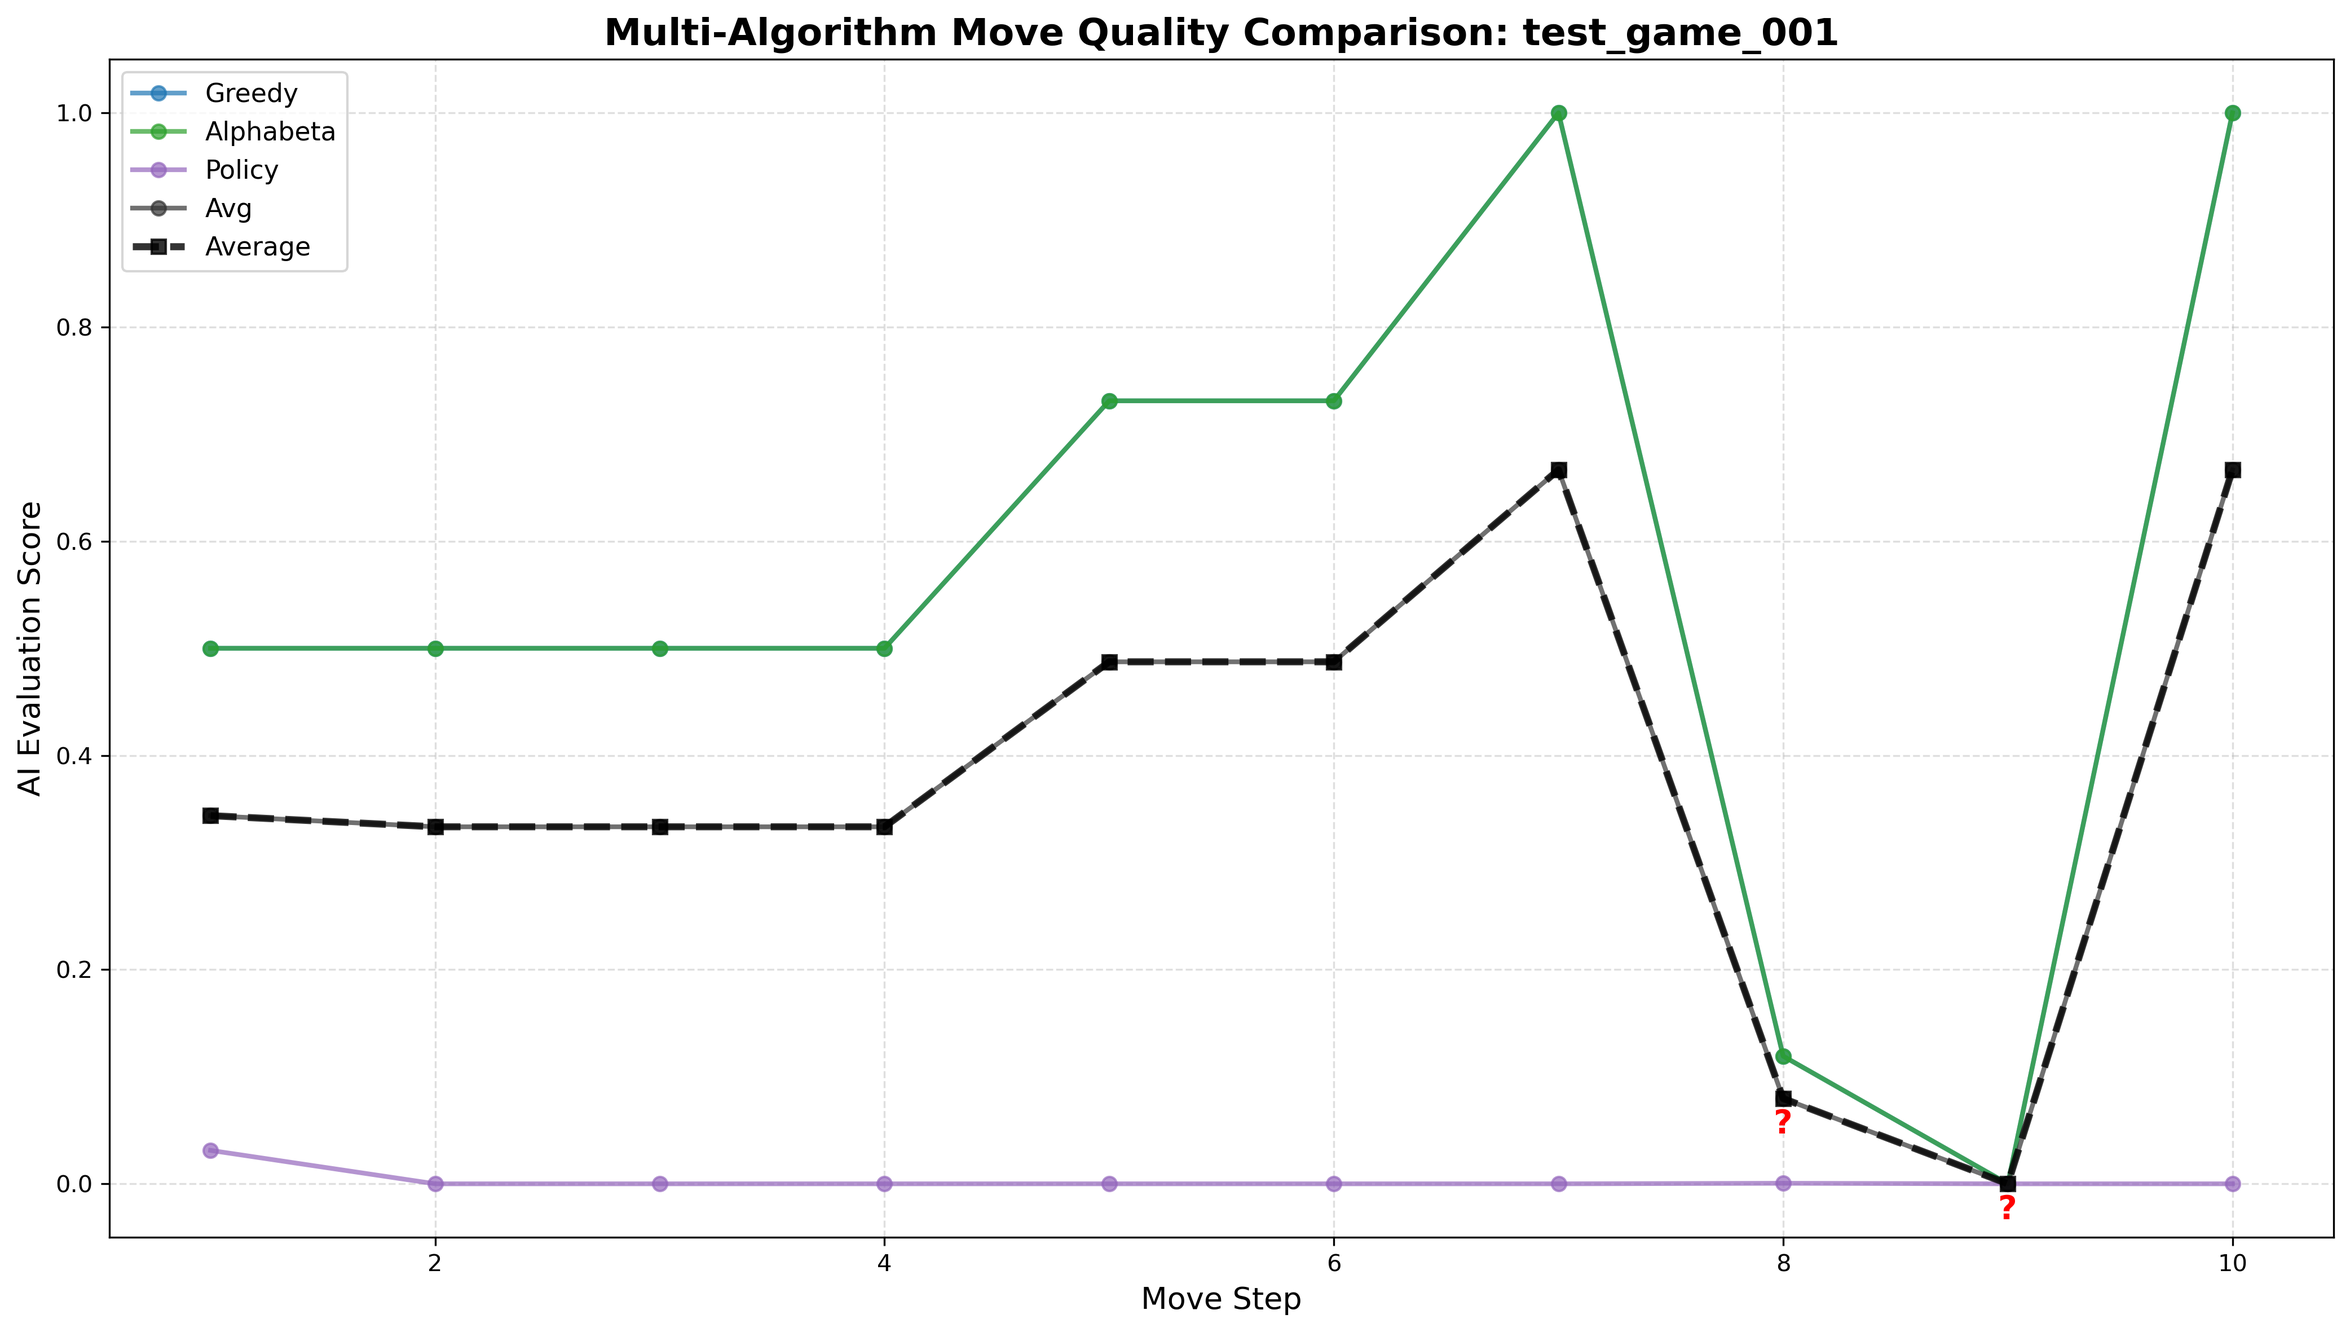
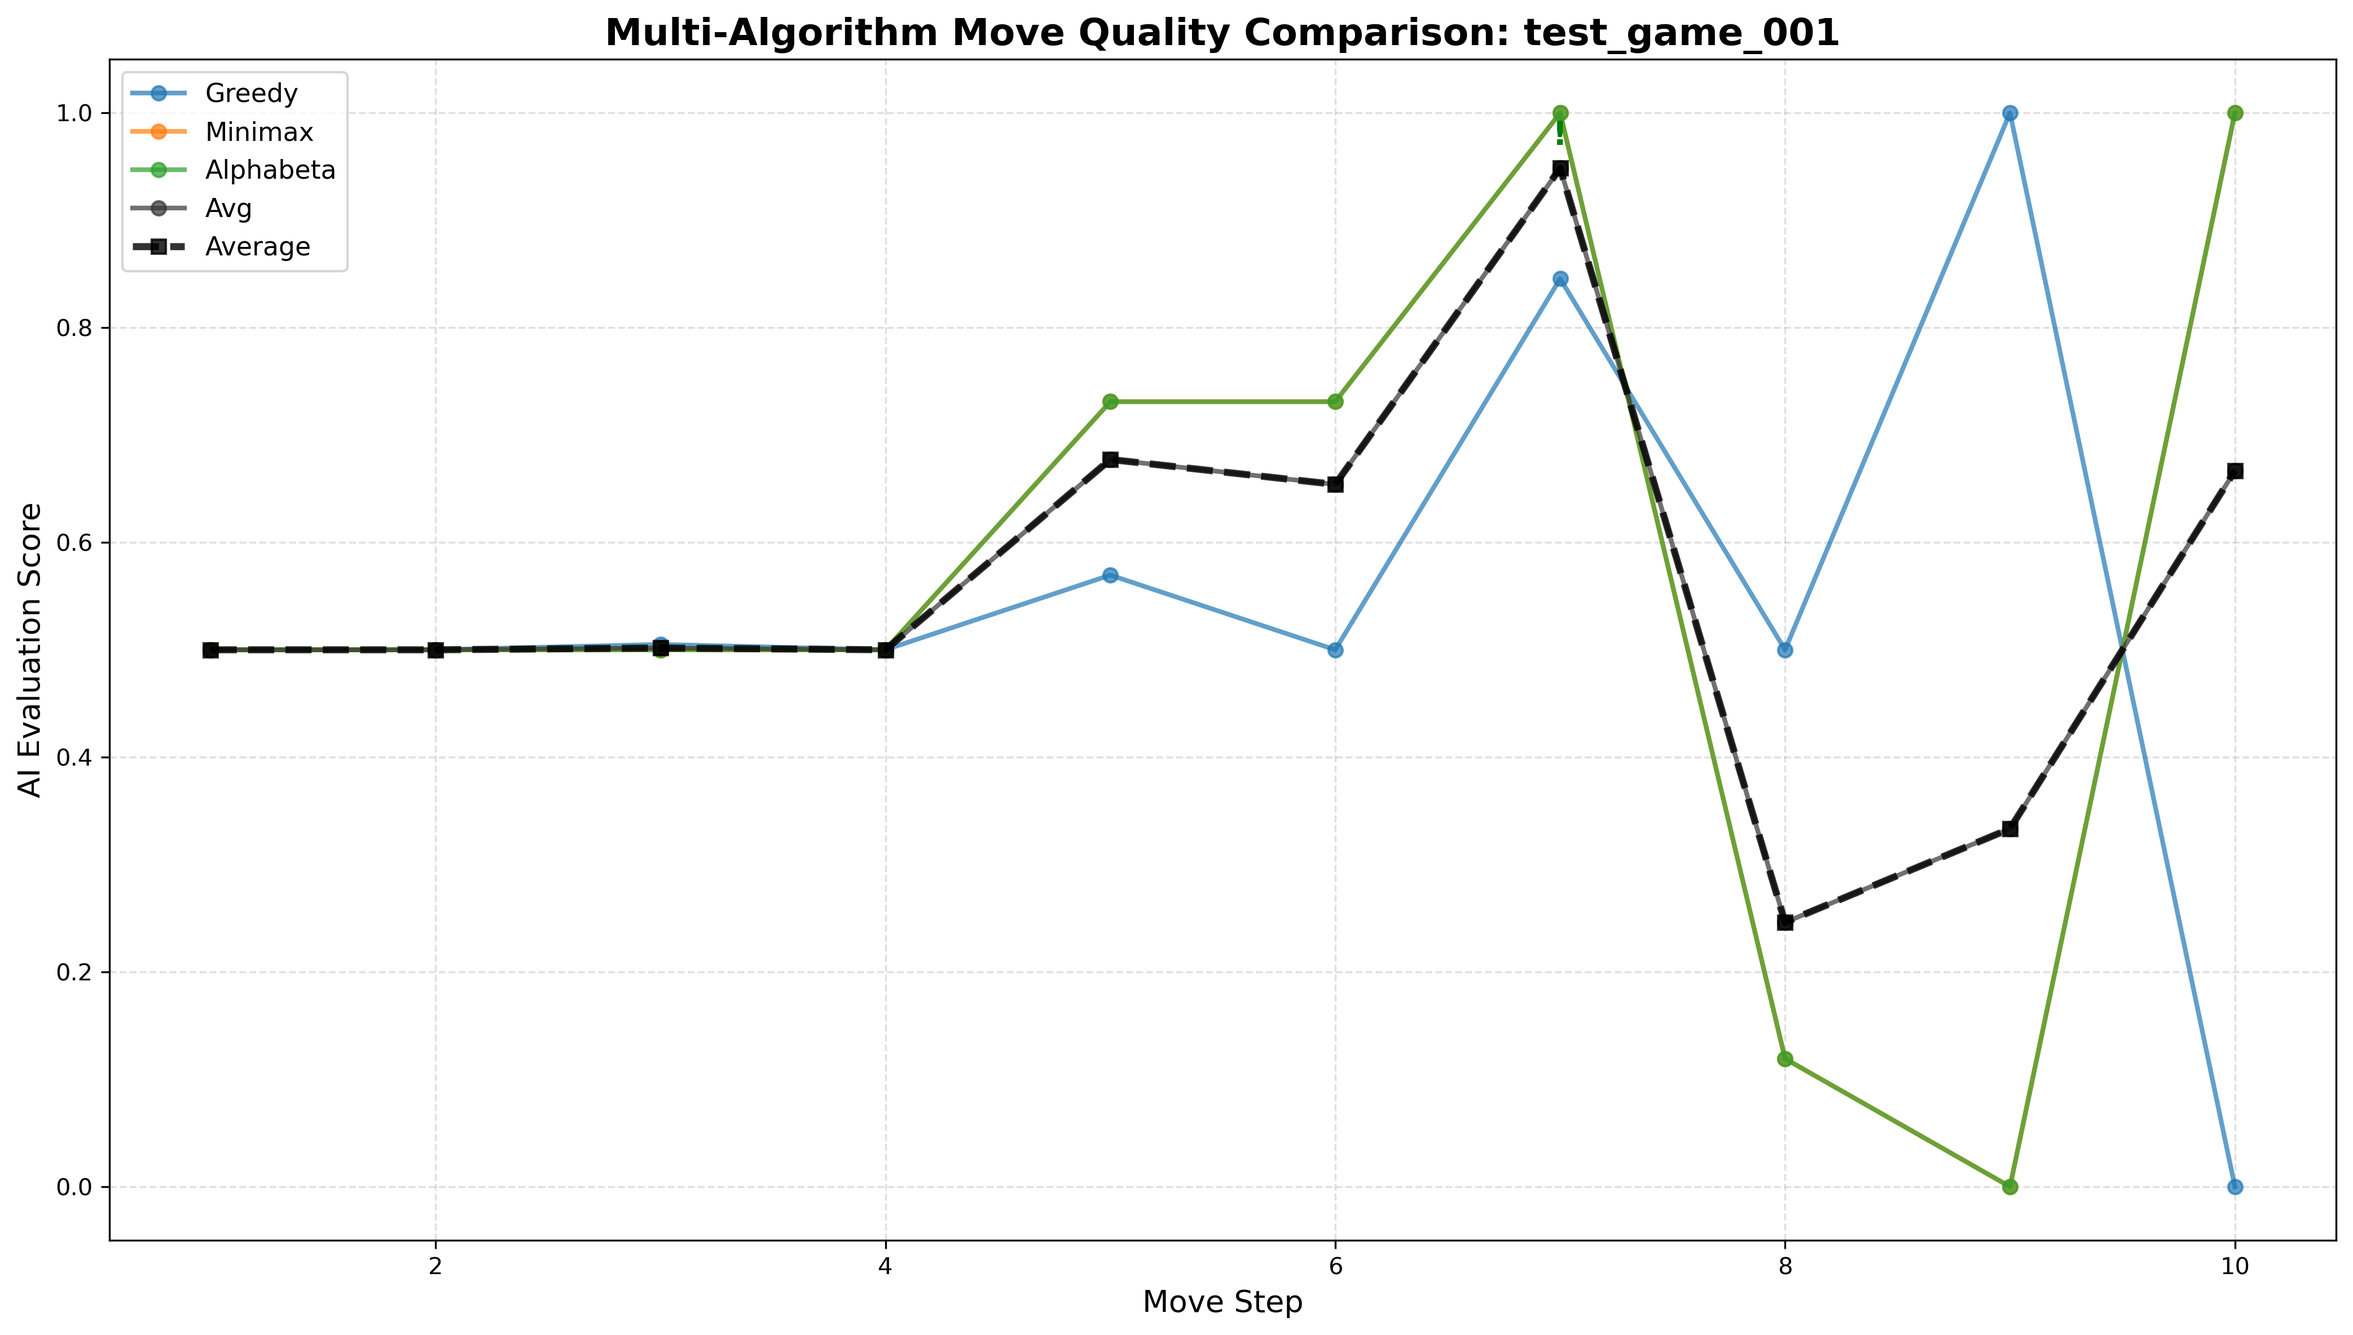
fix: Apply 4-algorithm visualization system
- Add evaluate_board methods to MCTSAgent and GreedyAgent
- Fix AlphaBetaAgent.evaluate_board normalization
- Remove Policy Network dependency
- Configure 4 classical algorithms (Greedy, Minimax, AlphaBeta, MCTS)
- Fix chart generation for dynamic algorithm count
- Update test scripts

This enables proper multi-algorithm evaluation and visualization.

diff --git a/backend/api/services/move_scorer.py b/backend/api/services/move_scorer.py
@@ -57,98 +57,60 @@ class MoveScorer:
         self._cache_hits = self._cache_misses = 0
         
         logger.info("Initializing AI agents...")
+        
+        # Initialize 4 classical algorithms
         self.greedy_agent = GreedyAgent(distance=GREEDY_DISTANCE)
+        
+        # Minimax (using AlphaBeta with depth 2)
+        self.minimax_agent = AlphaBetaAgent(depth=2, time_limit=0.3)
+        
+        # AlphaBeta (using AlphaBeta with deeper search)
         self.alphabeta_agent = AlphaBetaAgent(
             depth=ALPHABETA_DEPTH, time_limit=0.5 
         )
-        logger.info("[OK] Classic AI agents initialized")
         
-        # Load SL Policy Model (Intuition)
-        self.device = "cpu"
-        self.policy_net = None
-        try:
-            from backend.ai.basic.sl_network import Net
-            import torch
-            self.policy_net = Net().to(self.device)
-            self.policy_net.eval()
-            model_path = "models/sl_policy_v1_base.pth"
-            if os.path.exists(model_path):
-                self.policy_net.load_state_dict(torch.load(model_path, map_location=self.device))
-                logger.info(f"[OK] SL Policy Model loaded from {model_path}")
-            else:
-                logger.warning(f"SL Model not found at {model_path}")
-                self.policy_net = None
-        except Exception as e:
-            logger.warning(f"Failed to load SL Policy model: {e}")
-            self.policy_net = None
+        logger.info("[OK] Classic AI agents initialized (Greedy, Minimax, AlphaBeta)")
 
         self.enable_mcts = enable_mcts and MCTS_AVAILABLE
         if self.enable_mcts:
-            self.mcts_agent = MCTSAgent(time_limit=None, iteration_limit=MCTS_ITERATION_LIMIT)
+            self.mcts_agent = MCTSAgent(iteration_limit=MCTS_ITERATION_LIMIT)
             logger.info(f"[OK] MCTS initialized (iter={MCTS_ITERATION_LIMIT})")
         else:
             self.mcts_agent = None
 
-    def _get_policy_score(self, board: Board, player: int, move_x: int, move_y: int) -> float:
-        """Get probability of this move from SL policy network"""
-        if not self.policy_net: return 0.5
-        
-        import torch
-        import numpy as np
-        
-        try:
-            inp = np.zeros((15, 15), dtype=np.float32)
-            b_np = np.array(board.board)
-            inp[b_np == player] = 1.0
-            inp[(b_np != 0) & (b_np != player)] = -1.0
-            
-            t_inp = torch.tensor(inp).unsqueeze(0).unsqueeze(0).to(self.device)
-            with torch.no_grad():
-                logits = self.policy_net(t_inp)
-                probs = torch.softmax(logits, dim=1)
-                
-                # Get prob for specific move
-                idx = move_x * 15 + move_y
-                score = probs[0][idx].item()
-                
-                # Normalize: A move with prob > 0.1 is very good in 225 space
-                # Scale roughly 0 to 1 based on practical max
-                normalized = min(score * 10.0, 1.0) 
-                return normalized
-        except Exception as e:
-            logger.error(f"Policy calc error: {e}")
-            return 0.5
+    # Removed _get_policy_score - using 4 classical algorithms instead
 
     def _evaluate_position(self, board: Board, player: int) -> Dict[str, float]:
+        """Evaluate position using 4 classical AI algorithms."""
         scores = {}
-        import math
         
-        def safe_sigmoid(x, scale):
-            val = -x / scale
-            if val > 700: return 0.0 
-            if val < -700: return 1.0 
-            return 1 / (1 + math.exp(val))
-
-        # Greedy Score
-        raw_score = self.alphabeta_agent.evaluate_board(board, player)
-        scores['greedy'] = safe_sigmoid(raw_score, 100000.0) 
-        
-        # AlphaBeta Search Score
-        search_board = copy.deepcopy(board)
         try:
-            ab_value, _ = self.alphabeta_agent.alpha_beta_search(
-                search_board, player, depth=2, alpha=-math.inf, beta=math.inf
-            )
-            scores['alphabeta'] = safe_sigmoid(ab_value, 100000.0)
+            # 1. Greedy - fast heuristic
+            scores['greedy'] = self.greedy_agent.evaluate_board(board, player)
+        except Exception as e:
+            logger.error(f"Greedy error: {e}")
+            scores['greedy'] = 0.5
+        
+        try:
+            # 2. Minimax -  shallow search
+            scores['minimax'] = self.minimax_agent.evaluate_board(board, player)
+        except Exception as e:
+            logger.error(f"Minimax error: {e}")
+            scores['minimax'] = 0.5
+        
+        try:
+            # 3. Alpha-Beta - deep search with pruning
+            scores['alphabeta'] = self.alphabeta_agent.evaluate_board(board, player)
         except Exception as e:
             logger.error(f"Alpha-Beta error: {e}")
-            scores['alphabeta'] = scores['greedy']
+            scores['alphabeta'] = 0.5
         
+        # 4. MCTS - Monte Carlo simulation (optional)
         if self.enable_mcts and self.mcts_agent:
             try:
                 scores['mcts'] = self.mcts_agent.evaluate_board(board, player)
             except Exception as e:
-                logger.error(f"MCTS error: {e}")
+                logger.error(f"MCTS error: {e}", exc_info=True)
                 scores['mcts'] = 0.5
         
         return scores
@@ -161,12 +123,14 @@ class MoveScorer:
         # ... (validation skipped for brevity, assumed safe via wrapper)
         
         board = Board(size=BOARD_SIZE)
-        all_scores = {'greedy': [], 'alphabeta': [], 'policy': []}
+        
+        # Initialize score lists for 4 algorithms
+        all_scores = {'greedy': [], 'minimax': [], 'alphabeta': []}
         if self.enable_mcts:
             all_scores['mcts'] = []
         critical_moments = []
         
-        algo_names = "Policy, Greedy, AlphaBeta" + (", MCTS" if self.enable_mcts else "")
+        algo_names = "Greedy, Minimax, Alpha-Beta" + (", MCTS" if self.enable_mcts else "")
         logger.info(f"[ANALYZE] Analyzing game_id={game_id}, moves={len(moves)}, algos=[{algo_names}]")
         
         move_iterator = enumerate(moves) if not TQDM_AVAILABLE else tqdm(
@@ -175,25 +139,20 @@ class MoveScorer:
         
         for i, move in move_iterator:
             try:
-                # 1. Policy Score (Pre-Move Intuition)
-                policy_val = self._get_policy_score(board, move.player, move.x, move.y)
-                all_scores['policy'].append(policy_val)
-
-                # 2. Make Move
+                # Make move first
                 if not board.place_stone(move.x, move.y, move.player):
-                    logger.error(f"Invalid move at step {move.step}")
-                    for algo in all_scores: 
-                        if algo != 'policy': all_scores[algo].append(0.5)
+                    logger.error(f"Invalid move at step {move.step}: ({move.x}, {move.y})")
+                    for algo in all_scores:
+                        all_scores[algo].append(0.5)
                     continue
                 
-                # 3. Value Scores (Post-Move Execution)
+                # Evaluate position with all algorithms
                 scores = self._evaluate_position(board, move.player)
                 for algo, score in scores.items():
                     all_scores[algo].append(score)
                 
-                # Calculate Average
-                current_scores = [policy_val] + list(scores.values())
-                avg_score = sum(current_scores) / len(current_scores)
+                # Calculate average
+                avg_score = sum(scores.values()) / len(scores)
                 
                 if avg_score >= BRILLIANT_MOVE_THRESHOLD:
                     critical_moments.append({"step": move.step, "type": "Brilliant"})
@@ -206,7 +165,8 @@ class MoveScorer:
             except Exception as e:
                 logger.error(f"Error analyzing move {i+1}: {e}", exc_info=True)
                 for algo in all_scores:
-                    if len(all_scores[algo]) <= i: all_scores[algo].append(0.5)
+                    if len(all_scores[algo]) <= i:
+                        all_scores[algo].append(0.5)
         
         # Create DataFrame
         df_data = {
@@ -396,14 +356,25 @@ class MoveScorer:
 
     def _generate_score_distribution(self, df: pd.DataFrame, game_id: str) -> str:
         """Generate histogram showing distribution of move quality scores."""
-        fig, axes = plt.subplots(2, 2, figsize=(14, 10))
-        
         score_columns = [col for col in df.columns if col.endswith('_score')]
+        num_algos = len(score_columns)
+        
+        # Calculate grid size dynamically
+        ncols = 2
+        nrows = (num_algos + 1) // 2  # Ceiling division
+        
+        fig, axes = plt.subplots(nrows, ncols, figsize=(14, 5 * nrows))
+        
+        # Ensure axes is always 2D array
+        if nrows == 1:
+            axes = axes.reshape(1, -1)
+        elif ncols == 1:
+            axes = axes.reshape(-1, 1)
         
         # Plot histogram for each algorithm
         for idx, col in enumerate(score_columns):
-            row = idx // 2
-            col_idx = idx % 2
+            row = idx // ncols
+            col_idx = idx % ncols
             ax = axes[row][col_idx]
             
             algo_name = col.replace('_score', '').title()

diff --git a/backend/ai/baselines.py b/backend/ai/baselines.py
@@ -132,3 +132,50 @@ class GreedyAgent:
         self.last_metrics = SearchMetrics(elapsed, explored, len(candidates))
         
         return best_move
+    
+    def evaluate_board(self, board: Board, player: int) -> float:
+        """
+        Evaluate current board position using greedy heuristic.
+        
+        Args:
+            board: Current board state
+            player: Player to evaluate for
+            
+        Returns:
+            float: Normalized score in [0, 1]
+        """
+        directions = [(1, 0), (0, 1), (1, 1), (1, -1)]
+        
+        def evaluate_player(target: int) -> float:
+            score = 0.0
+            for x in range(board.size):
+                for y in range(board.size):
+                    if board.board[x][y] == target:
+                        for dx, dy in directions:
+                            count = 1
+                            # Forward
+                            tx, ty = x + dx, y + dy
+                            while board.is_inside(tx, ty) and board.board[tx][ty] == target:
+                                count += 1
+                                tx += dx
+                                ty += dy
+                            # Backward
+                            tx, ty = x - dx, y - dy
+                            while board.is_inside(tx, ty) and board.board[tx][ty] == target:
+                                count += 1
+                                tx -= dx
+                                ty -= dy
+                            
+                            if count >= 5: score += 100000
+                            elif count == 4: score += 5000
+                            elif count == 3: score += 1000
+                            elif count == 2: score += 100
+            return score
+        
+        player_score = evaluate_player(player)
+        opponent_score = evaluate_player(3 - player)
+        
+        # Normalize to [0, 1] using sigmoid
+        raw_score = player_score - opponent_score
+        return 1 / (1 + math.exp(-raw_score / 10000))
+

diff --git a/scripts/analysis/test_replay_scoring.py b/scripts/analysis/test_replay_scoring.py
@@ -65,7 +65,7 @@ def test_basic_scoring():
     stats = result['stats_summary']
     
     # Validate DataFrame structure
-    required_columns = ['step', 'player', 'x', 'y', 'greedy_score', 'policy_score',
+    required_columns = ['step', 'player', 'x', 'y', 'greedy_score', 'minimax_score',
                        'alphabeta_score', 'avg_score', 'score_variance', 'move_type']
     for col in required_columns:
         assert col in df.columns, f"Missing column: {col}"
@@ -79,7 +79,7 @@ def test_basic_scoring():
         print(f"   {key}: {value}")
     
     # Validate score ranges
-    for col in ['greedy_score', 'alphabeta_score', 'avg_score']:
+    for col in ['greedy_score', 'minimax_score', 'alphabeta_score', 'avg_score']:
         assert df[col].min() >= 0, f"{col} has values < 0"
         assert df[col].max() <= 1, f"{col} has values > 1"
     
@@ -87,7 +87,7 @@ def test_basic_scoring():
     
     # Show sample moves
     print(f"\n[INFO] Sample Move Analysis (first 5 moves):")
-    print(df[['step', 'player', 'policy_score', 'greedy_score', 'alphabeta_score', 
+    print(df[['step', 'player', 'greedy_score', 'minimax_score', 'alphabeta_score', 
              'avg_score', 'move_type']].head().to_string())
     
     # Check files were created
@@ -167,7 +167,7 @@ def main():
         
         # Test 2: MCTS scoring (commented out by default due to slowness)
         # Uncomment to test MCTS:
-        # test_with_mcts()
+        test_with_mcts()
         
         # Test 3: Critical move detection
         test_critical_move_detection()

diff --git a/backend/ai/mcts.py b/backend/ai/mcts.py
@@ -215,3 +215,41 @@ class MCTSAgent:
         
         best_child = max(root.children, key=lambda c: c.visits)
         return best_child.move if best_child.move else (-1, -1)
+    
+    def evaluate_board(self, board: Board, player: int) -> float:
+        """
+        Evaluate board position using MCTS simulations.
+        
+        Args:
+            board: Current board state  
+            player: Player to evaluate for (1 or 2)
+            
+        Returns:
+            float: Win rate estimate in [0, 1]
+        """
+        root = MCTSNode(copy.deepcopy(board), player)
+        
+        for _ in range(self.iteration_limit):
+            node = root
+            
+            # Selection
+            while not node.is_terminal() and not node.get_untried_moves() and node.children:
+                node = node.select_child_ucb(self.exploration_weight)
+            
+            # Expansion  
+            if not node.is_terminal() and node.get_untried_moves():
+                node = node.expand()
+                if node is None:
+                    node = root if not root.children else root.children[-1]
+            
+            # Simulation
+            winner = node.simulate()
+            
+            # Backpropagation
+            node.backpropagate(winner)
+        
+        if root.visits == 0:
+            return 0.5
+            
+        return max(0.0, min(1.0, root.wins / root.visits))
+

diff --git a/backend/ai/minimax.py b/backend/ai/minimax.py
@@ -28,8 +28,11 @@ class AlphaBetaAgent:
         self.start_time = 0
         self.nodes_explored = 0
         
-    def evaluate_board(self, board, player):
-        return self.evaluate_shape(board, player)
+    def evaluate_board(self, board, player) -> float:
+        """Evaluate board and return normalized score in [0, 1]."""
+        raw_score = self.evaluate_shape(board, player)
+        # Normalize using sigmoid
+        return 1 / (1 + math.exp(-raw_score / 100000))
 
     def get_move(self, board: Board, player: int) -> Tuple[int, int]:
         self.start_time = time.time()
